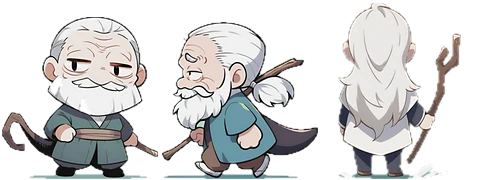
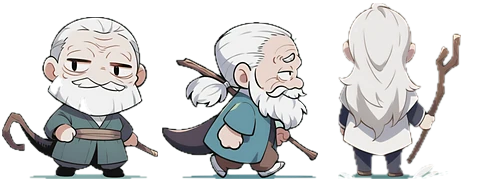
Keep the side views painted looking right unflipped (shared list in Longmen Tactics' ai_chibi.py), and newly painted characters

Changed region(s): [[0.3125, 0.1111, 0.6875, 1.0]]

diff --git a/js/ai_art.js b/js/ai_art.js
@@ -1,3 +1,3 @@
 // Made by tools/ai_art.py: the characters with AI-painted art in assets/ai/. Do not edit by hand.
 export const AI_POR = new Set(["acolyte", "aman", "ape", "archer", "assassin", "baixian", "bamboosprite", "bambooviper", "bellfire", "bellguard", "bellpuppet", "blackbone", "blackdaoist", "bloodbat", "bloodthug", "bloodwolf", "bronzejiangshi", "bronzeman", "cavebat", "centipede", "chengyuanzhi", "chutiankuo", "coldpool", "crow", "cudgeler", "daoba", "daoist", "deadwood", "drowned", "dummy", "erin", "firehornet", "fox", "frostwolf", "ghosthornet", "glowcap", "goldbone", "goldcentipede", "goldmonkey", "goldsnake", "greatbell", "greywolf", "guanyu", "guimian", "heixiong", "huaxiong", "hubanxian", "huotianxia", "icebat", "iceboar", "icejiangshi", "inkscorpion", "inkspirit", "ironboar", "ironcrab", "irondummy", "ironmonk", "jadetoad", "jasper", "jeff", "jiabafang", "jiangshi", "jiao", "jiling", "jingci", "josh", "kuchan", "lackey", "lavacrab", "lavascorpion", "lavawolf", "lihanshan", "lion", "littlejiangshi", "liuhanyan", "lotusghost", "lubu", "masked", "mojide", "mountainmonkey", "mowuya", "mudspirit", "netherarcher", "netherassassin", "netherflame", "niubaobao", "papereffigy", "pirate", "qianwanli", "redpaper", "redsnake", "rivercrab", "roguemonk", "sandscorpion", "shanxiao", "shouhou", "skeleton", "snowmonkey", "snowsprite", "stonetoad", "suxiaowan", "sx_archer", "sx_bl_palm", "sx_crossbow", "sx_cy_nun", "sx_daoist", "sx_disciple", "sx_founder", "sx_grandmaster", "sx_hf_club", "sx_hidden", "sx_hj_sword", "sx_inner", "sx_lm_saber", "sx_master", "sx_phantom", "sx_physician_f", "sx_physician", "sx_poison", "sx_qf_monk", "sx_qin_f", "sx_qin", "sx_saber", "sx_scholar", "sx_scout", "sx_smith", "sx_spear", "sx_starbow", "sx_strategist", "sx_sword", "sx_swordform", "sx_teller", "sx_thief", "sx_xd_blood", "sx_ym_assassin", "sx_yy_tiger", "sx_zf_chain", "tf_bandit", "tf_beggar", "tf_blacksmith", "tf_boatman", "tf_child", "tf_cultist", "tf_dancer", "tf_fisherman", "tf_guard", "tf_innkeeper", "tf_man", "tf_merchant", "tf_monk", "tf_nun", "tf_oldman", "tf_oldwoman", "tf_scholar", "tf_woman", "thundersprite", "tiewusi", "tiger", "tigerhornet", "toad", "toadstool", "treesprite", "tuqianqiu", "vajraguardian", "wenchou", "wenduizhang", "wenruyu", "wildboar", "windsprite", "wisp", "wudadan", "xiahoudun", "xiaolian", "xiaotian", "xiaowuying", "yanliang", "yichangfeng", "yirui", "yishuo", "yuweng", "zhangbao", "zhangliao"]);
-export const AI_MAP = new Set(["aman", "archer", "baixian", "bambooviper", "bloodbat", "bloodwolf", "bronzeman", "cavebat", "centipede", "chutiankuo", "cudgeler", "daoba", "drowned", "dummy", "goldmonkey", "greywolf", "guimian", "heixiong", "hubanxian", "huotianxia", "inkspirit", "ironboar", "jiabafang", "jingci", "kuchan", "lackey", "lihanshan", "littlejiangshi", "liuhanyan", "masked", "mojide", "mountainmonkey", "mowuya", "niubaobao", "papereffigy", "qianwanli", "redsnake", "rivercrab", "roguemonk", "sandscorpion", "shouhou", "skeleton", "stonetoad", "suxiaowan", "sx_grandmaster", "tf_bandit", "tf_beggar", "tf_blacksmith", "tf_boatman", "tf_child", "tf_cultist", "tf_dancer", "tf_fisherman", "tf_guard", "tf_innkeeper", "tf_man", "tf_merchant", "tf_monk", "tf_nun", "tf_oldman", "tf_oldwoman", "tf_scholar", "tf_woman", "tiewusi", "tigerhornet", "toadstool", "treesprite", "tuqianqiu", "wenduizhang", "wenruyu", "wildboar", "windsprite", "wisp", "wudadan", "xiaotian", "xiaowuying", "yichangfeng", "yirui", "yishuo", "yuweng"]);
+export const AI_MAP = new Set(["aman", "archer", "assassin", "baixian", "bambooviper", "blackbone", "bloodbat", "bloodthug", "bloodwolf", "bronzeman", "cavebat", "centipede", "chutiankuo", "cudgeler", "daoba", "daoist", "deadwood", "drowned", "dummy", "frostwolf", "ghosthornet", "goldcentipede", "goldmonkey", "greywolf", "guimian", "heixiong", "hubanxian", "huotianxia", "inkscorpion", "inkspirit", "ironboar", "ironcrab", "irondummy", "ironmonk", "jiabafang", "jingci", "kuchan", "lackey", "lihanshan", "littlejiangshi", "liuhanyan", "masked", "mojide", "mountainmonkey", "mowuya", "netherflame", "niubaobao", "papereffigy", "qianwanli", "redsnake", "rivercrab", "roguemonk", "sandscorpion", "shouhou", "skeleton", "stonetoad", "suxiaowan", "sx_grandmaster", "tf_bandit", "tf_beggar", "tf_blacksmith", "tf_boatman", "tf_child", "tf_cultist", "tf_dancer", "tf_fisherman", "tf_guard", "tf_innkeeper", "tf_man", "tf_merchant", "tf_monk", "tf_nun", "tf_oldman", "tf_oldwoman", "tf_scholar", "tf_woman", "thundersprite", "tiewusi", "tigerhornet", "toadstool", "treesprite", "tuqianqiu", "wenduizhang", "wenruyu", "wildboar", "windsprite", "wisp", "wudadan", "xiaotian", "xiaowuying", "yichangfeng", "yirui", "yishuo", "yuweng"]);

diff --git a/js/battle.js b/js/battle.js
@@ -21,7 +21,7 @@ import { AI_POSE } from './ai_pose.js?v=8';
 // The AI-painted cards (assets/ai/map, front | side | back, 160 x 180 each), by Character Gallery id. A painted
 // card carries res: its pixels per stage pixel, so it stands as tall as the pixel art it replaces, drawn smoothed.
 const gidOf = (s) => (CAST[s] ? s : (ENEMIES[s] ? ART_OF(s) : s)).replace(/^(e|bx)_/, '');
-const aiCard = (s) => (AI_MAP.has(gidOf(s)) ? `assets/ai/map/${gidOf(s)}.webp?v=2` : null);
+const aiCard = (s) => (AI_MAP.has(gidOf(s)) ? `assets/ai/map/${gidOf(s)}.webp?v=3` : null);
 const FOE_RES = 2.5, ALLY_RES = 7.5;
 // painted battle poses (tools/ai_pose.py): a strike and a flinch, for the party and the bosses
 const posesOf = (s) => (AI_POSE.has(gidOf(s)) ? { atk: img(`assets/ai/pose/${gidOf(s)}_atk.webp?v=1`), hurt: img(`assets/ai/pose/${gidOf(s)}_hurt.webp?v=1`) } : null);
@@ -37,7 +37,7 @@ const sleep = (ms) => new Promise((r) => setTimeout(r, ms));
 const imgs = {};
 function img(src) { if (!imgs[src]) { imgs[src] = new Image(); imgs[src].src = src; } return imgs[src]; }
 export const ENEMY_IMG = 'assets/enemies.png?v=8';
-export function preloadBattleArt() { img(ENEMY_IMG); img(PEOPLE_IMAGE); for (const c of Object.values(CAST)) { img(c.portrait); img(c.sheet); } for (const g of AI_MAP) img(`assets/ai/map/${g}.webp?v=2`); }
+export function preloadBattleArt() { img(ENEMY_IMG); img(PEOPLE_IMAGE); for (const c of Object.values(CAST)) { img(c.portrait); img(c.sheet); } for (const g of AI_MAP) img(`assets/ai/map/${g}.webp?v=3`); }
 
 const SCENES = {   // backdrop strip colours (NES indexes): sky, far, near
   grass: [0x21, 0x1A, 0x0A], forest: [0x0A, 0x0B, 0x1A], hill: [0x21, 0x19, 0x09], sand: [0x31, 0x27, 0x17], swamp: [0x0C, 0x0B, 0x04],

diff --git a/js/game.js b/js/game.js
@@ -33,7 +33,7 @@ export const aiPortrait = (s) => (AI_POR.has(gidOf(s)) ? `assets/ai/por/${gidOf(
 const aiCards = {};
 export function preloadAiCards() {
   const jobs = [];
-  for (const g of AI_MAP) if (!aiCards[g]) { aiCards[g] = 'loading'; jobs.push(loadImage(`assets/ai/map/${g}.webp?v=2`).then((img) => { if (img) { registerSheet('ai_' + g, img); aiCards[g] = 'ok'; } })); }
+  for (const g of AI_MAP) if (!aiCards[g]) { aiCards[g] = 'loading'; jobs.push(loadImage(`assets/ai/map/${g}.webp?v=3`).then((img) => { if (img) { registerSheet('ai_' + g, img); aiCards[g] = 'ok'; } })); }
   return Promise.all(jobs);
 }
 function aiLook(s) {

diff --git a/tools/ai_art.py b/tools/ai_art.py
@@ -53,7 +53,8 @@ def main():
             continue
         if not all(views):
             continue
-        views[1] = views[1].transpose(Image.FLIP_LEFT_RIGHT)   # painted looking left; the map's side views face right
+        if k not in ai_chibi.PAINTED_RIGHT:
+            views[1] = views[1].transpose(Image.FLIP_LEFT_RIGHT)   # painted looking left; the map's side views face right
         strip = Image.new('RGBA', (CW * 3, CH))
         for i, im in enumerate(views):
             strip.alpha_composite(im, (i * CW + (CW - im.width) // 2, CH - 1 - im.height))
